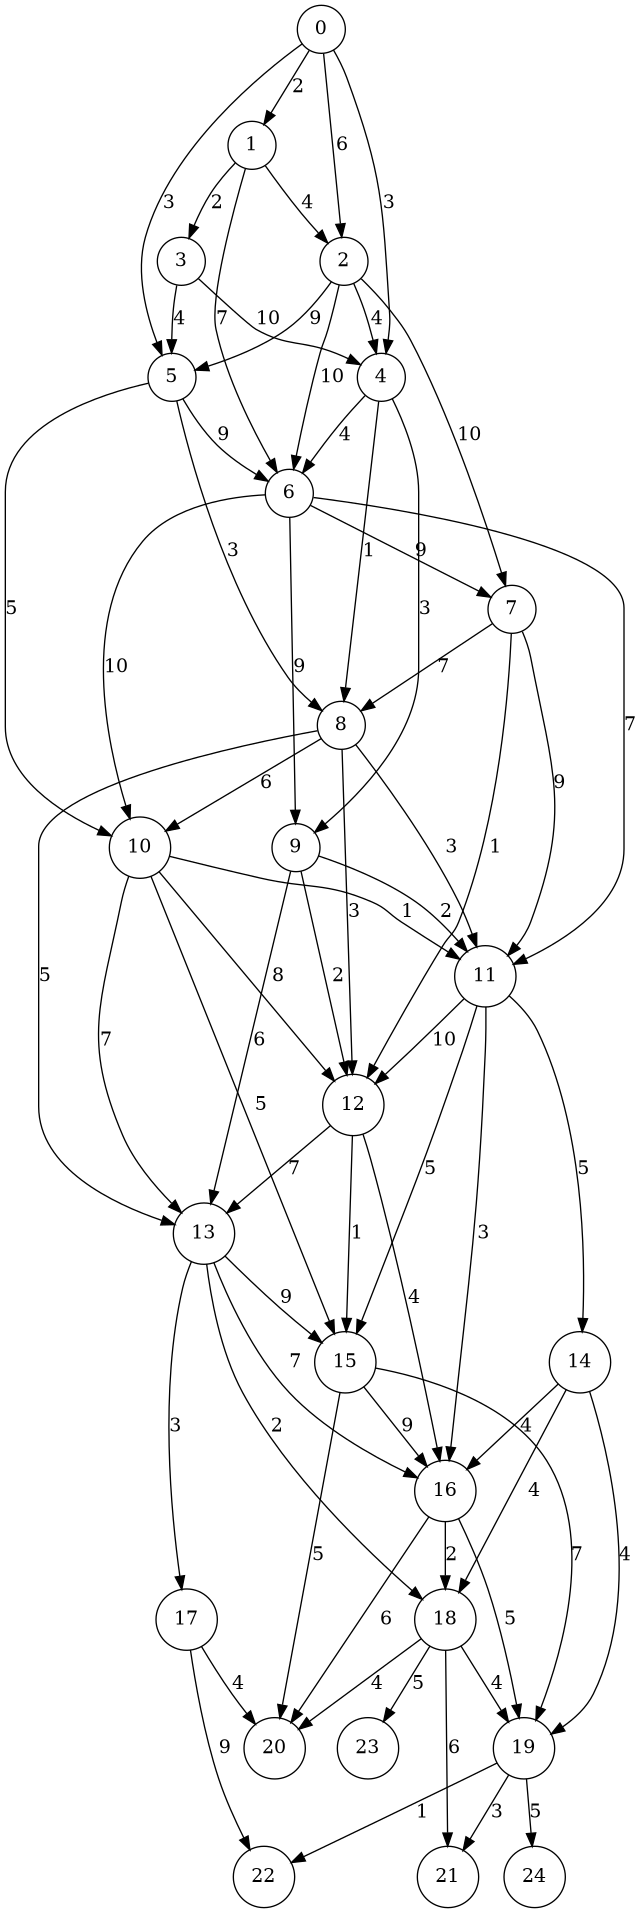
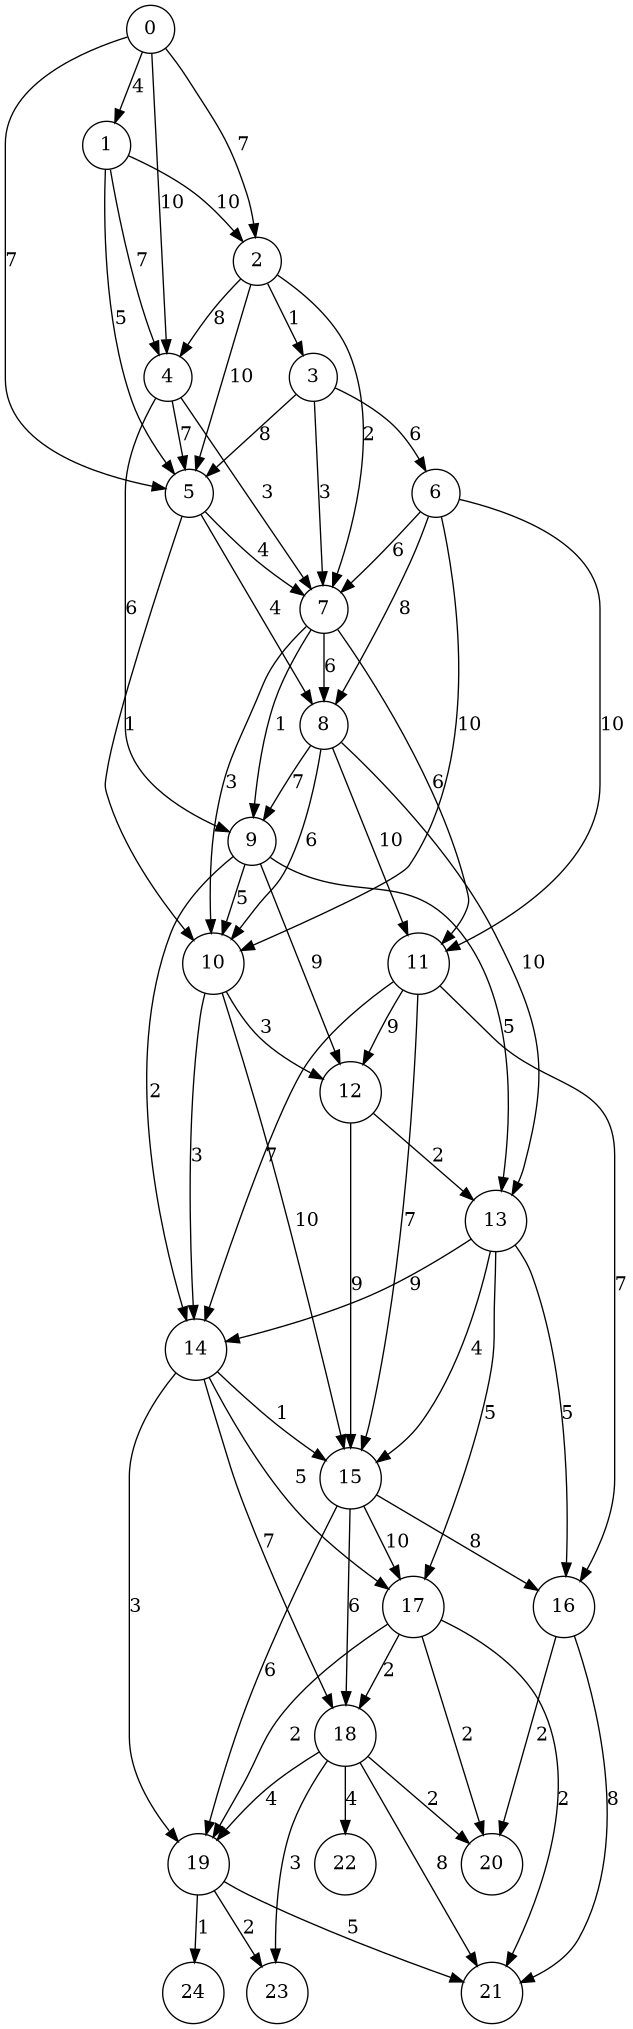
Few changes...

diff --git a/ford-fulkerson.html b/ford-fulkerson.html
@@ -183,11 +183,11 @@
 <span id="cb11-9"><a href="#cb11-9"></a>random-graph</span></code></pre></div>
 <div class="sourceCode" id="cb12"><pre class="sourceCode clojure"><code class="sourceCode clojure"><span id="cb12-1"><a href="#cb12-1"></a><span class="va">#&#39;user/get-random-graph</span></span>
 <span id="cb12-2"><a href="#cb12-2"></a><span class="va">#&#39;user/random-graph</span></span>
-<span id="cb12-3"><a href="#cb12-3"></a>{[<span class="dv">8</span> <span class="dv">9</span>] <span class="dv">5</span>, [<span class="dv">3</span> <span class="dv">4</span>] <span class="dv">6</span>, [<span class="dv">8</span> <span class="dv">10</span>] <span class="dv">3</span>, [<span class="dv">4</span> <span class="dv">9</span>] <span class="dv">9</span>, [<span class="dv">1</span> <span class="dv">4</span>] <span class="dv">7</span>, [<span class="dv">5</span> <span class="dv">7</span>] <span class="dv">4</span>, [<span class="dv">4</span> <span class="dv">8</span>] <span class="dv">10</span>, [<span class="dv">1</span> <span class="dv">5</span>] <span class="dv">1</span>, [<span class="dv">5</span> <span class="dv">6</span>] <span class="dv">2</span>, [<span class="dv">6</span> <span class="dv">11</span>] <span class="dv">3</span>, [<span class="dv">2</span> <span class="dv">7</span>] <span class="dv">8</span>, [<span class="dv">3</span> <span class="dv">6</span>] <span class="dv">8</span>, [<span class="dv">7</span> <span class="dv">10</span>] <span class="dv">10</span>, [<span class="dv">0</span> <span class="dv">2</span>] <span class="dv">10</span>, [<span class="dv">6</span> <span class="dv">10</span>] <span class="dv">6</span>, [<span class="dv">2</span> <span class="dv">6</span>] <span class="dv">9</span>}</span></code></pre></div>
+<span id="cb12-3"><a href="#cb12-3"></a>{[<span class="dv">8</span> <span class="dv">9</span>] <span class="dv">10</span>, [<span class="dv">7</span> <span class="dv">11</span>] <span class="dv">7</span>, [<span class="dv">5</span> <span class="dv">10</span>] <span class="dv">9</span>, [<span class="dv">0</span> <span class="dv">5</span>] <span class="dv">3</span>, [<span class="dv">3</span> <span class="dv">4</span>] <span class="dv">1</span>, [<span class="dv">7</span> <span class="dv">8</span>] <span class="dv">1</span>, [<span class="dv">4</span> <span class="dv">9</span>] <span class="dv">2</span>, [<span class="dv">1</span> <span class="dv">4</span>] <span class="dv">1</span>, [<span class="dv">5</span> <span class="dv">8</span>] <span class="dv">3</span>, [<span class="dv">8</span> <span class="dv">13</span>] <span class="dv">6</span>, [<span class="dv">2</span> <span class="dv">4</span>] <span class="dv">7</span>, [<span class="dv">6</span> <span class="dv">9</span>] <span class="dv">5</span>, [<span class="dv">0</span> <span class="dv">4</span>] <span class="dv">1</span>, [<span class="dv">6</span> <span class="dv">10</span>] <span class="dv">10</span>, [<span class="dv">3</span> <span class="dv">7</span>] <span class="dv">5</span>, [<span class="dv">2</span> <span class="dv">6</span>] <span class="dv">2</span>}</span></code></pre></div>
 <p><img src="figures/graphb.png" /></p>
 <div class="sourceCode" id="cb13"><pre class="sourceCode clojure"><code class="sourceCode clojure"><span id="cb13-1"><a href="#cb13-1"></a>(<span class="kw">into</span> [] (find-a-path random-graph <span class="dv">0</span> <span class="dv">9</span>))</span>
 <span id="cb13-2"><a href="#cb13-2"></a>(find-a-path random-graph <span class="dv">8</span> <span class="dv">0</span>)</span></code></pre></div>
-<div class="sourceCode" id="cb14"><pre class="sourceCode clojure"><code class="sourceCode clojure"><span id="cb14-1"><a href="#cb14-1"></a>[]</span>
+<div class="sourceCode" id="cb14"><pre class="sourceCode clojure"><code class="sourceCode clojure"><span id="cb14-1"><a href="#cb14-1"></a>[[<span class="dv">0</span> <span class="dv">5</span>] [<span class="dv">5</span> <span class="dv">8</span>] [<span class="dv">8</span> <span class="dv">9</span>]]</span>
 <span id="cb14-2"><a href="#cb14-2"></a>[]</span></code></pre></div>
 <p>Finally, our implementation of Ford-Fulkerson:</p>
 <div class="sourceCode" id="cb15"><pre class="sourceCode clojure"><code class="sourceCode clojure"><span id="cb15-1"><a href="#cb15-1"></a>(<span class="bu">defn</span><span class="fu"> ford-fulkerson </span>[G a b]</span>
@@ -207,12 +207,12 @@
 <div class="sourceCode" id="cb19"><pre class="sourceCode clojure"><code class="sourceCode clojure"><span id="cb19-1"><a href="#cb19-1"></a>(<span class="bu">def</span><span class="fu"> random-graph </span>(get-random-graph <span class="dv">20</span> <span class="dv">5</span> <span class="dv">5</span> <span class="dv">10</span>))</span>
 <span id="cb19-2"><a href="#cb19-2"></a>random-graph</span></code></pre></div>
 <div class="sourceCode" id="cb20"><pre class="sourceCode clojure"><code class="sourceCode clojure"><span id="cb20-1"><a href="#cb20-1"></a><span class="va">#&#39;user/random-graph</span></span>
-<span id="cb20-2"><a href="#cb20-2"></a>{[<span class="dv">8</span> <span class="dv">11</span>] <span class="dv">3</span>, [<span class="dv">16</span> <span class="dv">19</span>] <span class="dv">5</span>, [<span class="dv">7</span> <span class="dv">12</span>] <span class="dv">1</span>, [<span class="dv">18</span> <span class="dv">23</span>] <span class="dv">5</span>, [<span class="dv">13</span> <span class="dv">15</span>] <span class="dv">9</span>, [<span class="dv">7</span> <span class="dv">11</span>] <span class="dv">9</span>, [<span class="dv">10</span> <span class="dv">15</span>] <span class="dv">5</span>, [<span class="dv">2</span> <span class="dv">5</span>] <span class="dv">9</span>, [<span class="dv">15</span> <span class="dv">16</span>] <span class="dv">9</span>, [<span class="dv">10</span> <span class="dv">13</span>] <span class="dv">7</span>, [<span class="dv">15</span> <span class="dv">19</span>] <span class="dv">7</span>, [<span class="dv">6</span> <span class="dv">7</span>] <span class="dv">9</span>, [<span class="dv">12</span> <span class="dv">13</span>] <span class="dv">7</span>, [<span class="dv">5</span> <span class="dv">10</span>] <span class="dv">5</span>, [<span class="dv">0</span> <span class="dv">5</span>] <span class="dv">3</span>, [<span class="dv">3</span> <span class="dv">4</span>] <span class="dv">10</span>, [<span class="dv">19</span> <span class="dv">24</span>] <span class="dv">5</span>, [<span class="dv">11</span> <span class="dv">14</span>] <span class="dv">5</span>, [<span class="dv">19</span> <span class="dv">22</span>] <span class="dv">1</span>, [<span class="dv">18</span> <span class="dv">19</span>] <span class="dv">4</span>, [<span class="dv">7</span> <span class="dv">8</span>] <span class="dv">7</span>, [<span class="dv">8</span> <span class="dv">10</span>] <span class="dv">6</span>, [<span class="dv">14</span> <span class="dv">19</span>] <span class="dv">4</span>, [<span class="dv">9</span> <span class="dv">12</span>] <span class="dv">2</span>, [<span class="dv">4</span> <span class="dv">9</span>] <span class="dv">3</span>, [<span class="dv">15</span> <span class="dv">20</span>] <span class="dv">5</span>, [<span class="dv">4</span> <span class="dv">6</span>] <span class="dv">4</span>, [<span class="dv">11</span> <span class="dv">12</span>] <span class="dv">10</span>, [<span class="dv">1</span> <span class="dv">3</span>] <span class="dv">2</span>, [<span class="dv">4</span> <span class="dv">8</span>] <span class="dv">1</span>, [<span class="dv">10</span> <span class="dv">11</span>] <span class="dv">1</span>, [<span class="dv">5</span> <span class="dv">6</span>] <span class="dv">9</span>, [<span class="dv">5</span> <span class="dv">8</span>] <span class="dv">3</span>, [<span class="dv">16</span> <span class="dv">18</span>] <span class="dv">2</span>, [<span class="dv">8</span> <span class="dv">13</span>] <span class="dv">5</span>, [<span class="dv">9</span> <span class="dv">11</span>] <span class="dv">2</span>, [<span class="dv">6</span> <span class="dv">11</span>] <span class="dv">7</span>, [<span class="dv">10</span> <span class="dv">12</span>] <span class="dv">8</span>, [<span class="dv">2</span> <span class="dv">7</span>] <span class="dv">10</span>, [<span class="dv">13</span> <span class="dv">17</span>] <span class="dv">3</span>, [<span class="dv">2</span> <span class="dv">4</span>] <span class="dv">4</span>, [<span class="dv">12</span> <span class="dv">15</span>] <span class="dv">1</span>, [<span class="dv">0</span> <span class="dv">2</span>] <span class="dv">6</span>, [<span class="dv">6</span> <span class="dv">9</span>] <span class="dv">9</span>, [<span class="dv">11</span> <span class="dv">15</span>] <span class="dv">5</span>, [<span class="dv">19</span> <span class="dv">21</span>] <span class="dv">3</span>, [<span class="dv">0</span> <span class="dv">4</span>] <span class="dv">3</span>, [<span class="dv">14</span> <span class="dv">18</span>] <span class="dv">4</span>, [<span class="dv">9</span> <span class="dv">13</span>] <span class="dv">6</span>, [<span class="dv">13</span> <span class="dv">16</span>] <span class="dv">7</span>, [<span class="dv">13</span> <span class="dv">18</span>] <span class="dv">2</span>, [<span class="dv">6</span> <span class="dv">10</span>] <span class="dv">10</span>, [<span class="dv">14</span> <span class="dv">16</span>] <span class="dv">4</span>, [<span class="dv">1</span> <span class="dv">6</span>] <span class="dv">7</span>, [<span class="dv">16</span> <span class="dv">20</span>] <span class="dv">6</span>, [<span class="dv">18</span> <span class="dv">21</span>] <span class="dv">6</span>, [<span class="dv">2</span> <span class="dv">6</span>] <span class="dv">10</span>, [<span class="dv">8</span> <span class="dv">12</span>] <span class="dv">3</span>, [<span class="dv">12</span> <span class="dv">16</span>] <span class="dv">4</span>, [<span class="dv">1</span> <span class="dv">2</span>] <span class="dv">4</span>, [<span class="dv">18</span> <span class="dv">20</span>] <span class="dv">4</span>, [<span class="dv">3</span> <span class="dv">5</span>] <span class="dv">4</span>, [<span class="dv">17</span> <span class="dv">22</span>] <span class="dv">9</span>, [<span class="dv">11</span> <span class="dv">16</span>] <span class="dv">3</span>, [<span class="dv">0</span> <span class="dv">1</span>] <span class="dv">2</span>, [<span class="dv">17</span> <span class="dv">20</span>] <span class="dv">4</span>}</span></code></pre></div>
+<span id="cb20-2"><a href="#cb20-2"></a>{[<span class="dv">8</span> <span class="dv">11</span>] <span class="dv">10</span>, [<span class="dv">10</span> <span class="dv">14</span>] <span class="dv">3</span>, [<span class="dv">8</span> <span class="dv">9</span>] <span class="dv">7</span>, [<span class="dv">18</span> <span class="dv">23</span>] <span class="dv">3</span>, [<span class="dv">13</span> <span class="dv">15</span>] <span class="dv">4</span>, [<span class="dv">7</span> <span class="dv">11</span>] <span class="dv">6</span>, [<span class="dv">10</span> <span class="dv">15</span>] <span class="dv">10</span>, [<span class="dv">14</span> <span class="dv">17</span>] <span class="dv">5</span>, [<span class="dv">2</span> <span class="dv">3</span>] <span class="dv">1</span>, [<span class="dv">2</span> <span class="dv">5</span>] <span class="dv">10</span>, [<span class="dv">15</span> <span class="dv">16</span>] <span class="dv">8</span>, [<span class="dv">15</span> <span class="dv">17</span>] <span class="dv">10</span>, [<span class="dv">15</span> <span class="dv">19</span>] <span class="dv">6</span>, [<span class="dv">6</span> <span class="dv">7</span>] <span class="dv">6</span>, [<span class="dv">12</span> <span class="dv">13</span>] <span class="dv">2</span>, [<span class="dv">5</span> <span class="dv">10</span>] <span class="dv">1</span>, [<span class="dv">0</span> <span class="dv">5</span>] <span class="dv">7</span>, [<span class="dv">19</span> <span class="dv">24</span>] <span class="dv">1</span>, [<span class="dv">17</span> <span class="dv">18</span>] <span class="dv">2</span>, [<span class="dv">11</span> <span class="dv">14</span>] <span class="dv">7</span>, [<span class="dv">18</span> <span class="dv">19</span>] <span class="dv">4</span>, [<span class="dv">7</span> <span class="dv">8</span>] <span class="dv">6</span>, [<span class="dv">19</span> <span class="dv">23</span>] <span class="dv">2</span>, [<span class="dv">8</span> <span class="dv">10</span>] <span class="dv">6</span>, [<span class="dv">14</span> <span class="dv">19</span>] <span class="dv">3</span>, [<span class="dv">9</span> <span class="dv">12</span>] <span class="dv">9</span>, [<span class="dv">4</span> <span class="dv">7</span>] <span class="dv">3</span>, [<span class="dv">4</span> <span class="dv">9</span>] <span class="dv">6</span>, [<span class="dv">14</span> <span class="dv">15</span>] <span class="dv">1</span>, [<span class="dv">1</span> <span class="dv">4</span>] <span class="dv">7</span>, [<span class="dv">5</span> <span class="dv">7</span>] <span class="dv">4</span>, [<span class="dv">11</span> <span class="dv">12</span>] <span class="dv">9</span>, [<span class="dv">18</span> <span class="dv">22</span>] <span class="dv">4</span>, [<span class="dv">1</span> <span class="dv">5</span>] <span class="dv">5</span>, [<span class="dv">9</span> <span class="dv">14</span>] <span class="dv">2</span>, [<span class="dv">15</span> <span class="dv">18</span>] <span class="dv">6</span>, [<span class="dv">5</span> <span class="dv">8</span>] <span class="dv">4</span>, [<span class="dv">8</span> <span class="dv">13</span>] <span class="dv">10</span>, [<span class="dv">6</span> <span class="dv">8</span>] <span class="dv">8</span>, [<span class="dv">6</span> <span class="dv">11</span>] <span class="dv">10</span>, [<span class="dv">7</span> <span class="dv">9</span>] <span class="dv">1</span>, [<span class="dv">10</span> <span class="dv">12</span>] <span class="dv">3</span>, [<span class="dv">2</span> <span class="dv">7</span>] <span class="dv">2</span>, [<span class="dv">13</span> <span class="dv">17</span>] <span class="dv">5</span>, [<span class="dv">2</span> <span class="dv">4</span>] <span class="dv">8</span>, [<span class="dv">3</span> <span class="dv">6</span>] <span class="dv">6</span>, [<span class="dv">12</span> <span class="dv">15</span>] <span class="dv">9</span>, [<span class="dv">7</span> <span class="dv">10</span>] <span class="dv">3</span>, [<span class="dv">4</span> <span class="dv">5</span>] <span class="dv">7</span>, [<span class="dv">0</span> <span class="dv">2</span>] <span class="dv">7</span>, [<span class="dv">11</span> <span class="dv">15</span>] <span class="dv">7</span>, [<span class="dv">19</span> <span class="dv">21</span>] <span class="dv">5</span>, [<span class="dv">0</span> <span class="dv">4</span>] <span class="dv">10</span>, [<span class="dv">14</span> <span class="dv">18</span>] <span class="dv">7</span>, [<span class="dv">9</span> <span class="dv">13</span>] <span class="dv">5</span>, [<span class="dv">13</span> <span class="dv">16</span>] <span class="dv">5</span>, [<span class="dv">6</span> <span class="dv">10</span>] <span class="dv">10</span>, [<span class="dv">17</span> <span class="dv">19</span>] <span class="dv">2</span>, [<span class="dv">3</span> <span class="dv">7</span>] <span class="dv">3</span>, [<span class="dv">16</span> <span class="dv">20</span>] <span class="dv">2</span>, [<span class="dv">18</span> <span class="dv">21</span>] <span class="dv">8</span>, [<span class="dv">9</span> <span class="dv">10</span>] <span class="dv">5</span>, [<span class="dv">16</span> <span class="dv">21</span>] <span class="dv">8</span>, [<span class="dv">1</span> <span class="dv">2</span>] <span class="dv">10</span>, [<span class="dv">18</span> <span class="dv">20</span>] <span class="dv">2</span>, [<span class="dv">3</span> <span class="dv">5</span>] <span class="dv">8</span>, [<span class="dv">13</span> <span class="dv">14</span>] <span class="dv">9</span>, [<span class="dv">11</span> <span class="dv">16</span>] <span class="dv">7</span>, [<span class="dv">0</span> <span class="dv">1</span>] <span class="dv">4</span>, [<span class="dv">17</span> <span class="dv">21</span>] <span class="dv">2</span>, [<span class="dv">17</span> <span class="dv">20</span>] <span class="dv">2</span>}</span></code></pre></div>
 <p><img src="figures/graph9.png" /></p>
 <div class="sourceCode" id="cb21"><pre class="sourceCode clojure"><code class="sourceCode clojure"><span id="cb21-1"><a href="#cb21-1"></a>(<span class="bu">def</span><span class="fu"> augmenting-subgraph </span>(ford-fulkerson random-graph <span class="dv">0</span> <span class="dv">20</span>))</span>
 <span id="cb21-2"><a href="#cb21-2"></a>augmenting-subgraph</span></code></pre></div>
 <div class="sourceCode" id="cb22"><pre class="sourceCode clojure"><code class="sourceCode clojure"><span id="cb22-1"><a href="#cb22-1"></a><span class="va">#&#39;user/augmenting-subgraph</span></span>
-<span id="cb22-2"><a href="#cb22-2"></a>{(<span class="dv">7</span> <span class="dv">6</span>) <span class="dv">8</span>, [<span class="dv">8</span> <span class="dv">11</span>] <span class="dv">4</span>, [<span class="dv">7</span> <span class="dv">12</span>] <span class="dv">1</span>, (<span class="dv">10</span> <span class="dv">5</span>) <span class="dv">4</span>, [<span class="dv">13</span> <span class="dv">15</span>] <span class="dv">7</span>, (<span class="dv">11</span> <span class="dv">9</span>) <span class="dv">3</span>, (<span class="dv">4</span> <span class="dv">3</span>) <span class="dv">2</span>, [<span class="dv">7</span> <span class="dv">11</span>] <span class="dv">2</span>, [<span class="dv">10</span> <span class="dv">15</span>] <span class="dv">3</span>, [<span class="dv">2</span> <span class="dv">5</span>] <span class="dv">8</span>, [<span class="dv">15</span> <span class="dv">16</span>] <span class="dv">5</span>, [<span class="dv">6</span> <span class="dv">7</span>] <span class="dv">9</span>, [<span class="dv">12</span> <span class="dv">13</span>] <span class="dv">6</span>, [<span class="dv">5</span> <span class="dv">10</span>] <span class="dv">6</span>, [<span class="dv">0</span> <span class="dv">5</span>] <span class="dv">8</span>, [<span class="dv">3</span> <span class="dv">4</span>] <span class="dv">3</span>, [<span class="dv">11</span> <span class="dv">14</span>] <span class="dv">8</span>, [<span class="dv">8</span> <span class="dv">10</span>] <span class="dv">1</span>, [<span class="dv">9</span> <span class="dv">12</span>] <span class="dv">2</span>, [<span class="dv">4</span> <span class="dv">9</span>] <span class="dv">3</span>, (<span class="dv">6</span> <span class="dv">5</span>) <span class="dv">7</span>, [<span class="dv">15</span> <span class="dv">20</span>] <span class="dv">5</span>, (<span class="dv">5</span> <span class="dv">2</span>) <span class="dv">4</span>, [<span class="dv">4</span> <span class="dv">6</span>] <span class="dv">2</span>, (<span class="dv">11</span> <span class="dv">8</span>) <span class="dv">2</span>, [<span class="dv">11</span> <span class="dv">12</span>] <span class="dv">3</span>, [<span class="dv">1</span> <span class="dv">3</span>] <span class="dv">2</span>, (<span class="dv">6</span> <span class="dv">4</span>) <span class="dv">1</span>, [<span class="dv">5</span> <span class="dv">6</span>] <span class="dv">9</span>, [<span class="dv">5</span> <span class="dv">8</span>] <span class="dv">3</span>, (<span class="dv">14</span> <span class="dv">11</span>) <span class="dv">4</span>, [<span class="dv">9</span> <span class="dv">11</span>] <span class="dv">3</span>, [<span class="dv">6</span> <span class="dv">11</span>] <span class="dv">3</span>, [<span class="dv">2</span> <span class="dv">7</span>] <span class="dv">2</span>, [<span class="dv">0</span> <span class="dv">2</span>] <span class="dv">6</span>, [<span class="dv">0</span> <span class="dv">4</span>] <span class="dv">3</span>, [<span class="dv">14</span> <span class="dv">18</span>] <span class="dv">4</span>, [<span class="dv">9</span> <span class="dv">13</span>] <span class="dv">1</span>, (<span class="dv">3</span> <span class="dv">1</span>) <span class="dv">1</span>, [<span class="dv">1</span> <span class="dv">6</span>] <span class="dv">1</span>, [<span class="dv">16</span> <span class="dv">20</span>] <span class="dv">5</span>, (<span class="dv">5</span> <span class="dv">0</span>) <span class="dv">5</span>, [<span class="dv">18</span> <span class="dv">20</span>] <span class="dv">4</span>, [<span class="dv">0</span> <span class="dv">1</span>] <span class="dv">2</span>}</span></code></pre></div>
+<span id="cb22-2"><a href="#cb22-2"></a>{[<span class="dv">8</span> <span class="dv">11</span>] <span class="dv">1</span>, [<span class="dv">10</span> <span class="dv">14</span>] <span class="dv">1</span>, [<span class="dv">13</span> <span class="dv">15</span>] <span class="dv">1</span>, [<span class="dv">7</span> <span class="dv">11</span>] <span class="dv">4</span>, [<span class="dv">14</span> <span class="dv">17</span>] <span class="dv">6</span>, [<span class="dv">15</span> <span class="dv">16</span>] <span class="dv">2</span>, [<span class="dv">12</span> <span class="dv">13</span>] <span class="dv">1</span>, [<span class="dv">5</span> <span class="dv">10</span>] <span class="dv">1</span>, [<span class="dv">0</span> <span class="dv">5</span>] <span class="dv">6</span>, [<span class="dv">17</span> <span class="dv">18</span>] <span class="dv">2</span>, [<span class="dv">11</span> <span class="dv">14</span>] <span class="dv">5</span>, [<span class="dv">14</span> <span class="dv">15</span>] <span class="dv">1</span>, [<span class="dv">5</span> <span class="dv">7</span>] <span class="dv">4</span>, [<span class="dv">11</span> <span class="dv">12</span>] <span class="dv">1</span>, [<span class="dv">5</span> <span class="dv">8</span>] <span class="dv">1</span>, (<span class="dv">14</span> <span class="dv">11</span>) <span class="dv">1</span>, (<span class="dv">17</span> <span class="dv">14</span>) <span class="dv">2</span>, [<span class="dv">16</span> <span class="dv">20</span>] <span class="dv">2</span>, [<span class="dv">18</span> <span class="dv">20</span>] <span class="dv">2</span>, [<span class="dv">17</span> <span class="dv">20</span>] <span class="dv">2</span>}</span></code></pre></div>
 <p><img src="figures/grapha.png" /></p>
 <p>Let me simplify the output by removing spurious feedback loops:</p>
 <div class="sourceCode" id="cb23"><pre class="sourceCode clojure"><code class="sourceCode clojure"><span id="cb23-1"><a href="#cb23-1"></a>(<span class="bu">defn</span><span class="fu"> clean </span>[G]</span>

diff --git a/ford-fulkerson.md b/ford-fulkerson.md
@@ -196,7 +196,7 @@ random-graph
 ```clojure
 #'user/get-random-graph
 #'user/random-graph
-{[8 9] 5, [3 4] 6, [8 10] 3, [4 9] 9, [1 4] 7, [5 7] 4, [4 8] 10, [1 5] 1, [5 6] 2, [6 11] 3, [2 7] 8, [3 6] 8, [7 10] 10, [0 2] 10, [6 10] 6, [2 6] 9}
+{[8 9] 10, [7 11] 7, [5 10] 9, [0 5] 3, [3 4] 1, [7 8] 1, [4 9] 2, [1 4] 1, [5 8] 3, [8 13] 6, [2 4] 7, [6 9] 5, [0 4] 1, [6 10] 10, [3 7] 5, [2 6] 2}
 ```
 
 ![](figures/graphb.png)
@@ -205,7 +205,7 @@ random-graph
 (find-a-path random-graph 8 0)
 ```
 ```clojure
-[]
+[[0 5] [5 8] [8 9]]
 []
 ```
 
@@ -240,7 +240,7 @@ random-graph
 ```
 ```clojure
 #'user/random-graph
-{[8 11] 3, [16 19] 5, [7 12] 1, [18 23] 5, [13 15] 9, [7 11] 9, [10 15] 5, [2 5] 9, [15 16] 9, [10 13] 7, [15 19] 7, [6 7] 9, [12 13] 7, [5 10] 5, [0 5] 3, [3 4] 10, [19 24] 5, [11 14] 5, [19 22] 1, [18 19] 4, [7 8] 7, [8 10] 6, [14 19] 4, [9 12] 2, [4 9] 3, [15 20] 5, [4 6] 4, [11 12] 10, [1 3] 2, [4 8] 1, [10 11] 1, [5 6] 9, [5 8] 3, [16 18] 2, [8 13] 5, [9 11] 2, [6 11] 7, [10 12] 8, [2 7] 10, [13 17] 3, [2 4] 4, [12 15] 1, [0 2] 6, [6 9] 9, [11 15] 5, [19 21] 3, [0 4] 3, [14 18] 4, [9 13] 6, [13 16] 7, [13 18] 2, [6 10] 10, [14 16] 4, [1 6] 7, [16 20] 6, [18 21] 6, [2 6] 10, [8 12] 3, [12 16] 4, [1 2] 4, [18 20] 4, [3 5] 4, [17 22] 9, [11 16] 3, [0 1] 2, [17 20] 4}
+{[8 11] 10, [10 14] 3, [8 9] 7, [18 23] 3, [13 15] 4, [7 11] 6, [10 15] 10, [14 17] 5, [2 3] 1, [2 5] 10, [15 16] 8, [15 17] 10, [15 19] 6, [6 7] 6, [12 13] 2, [5 10] 1, [0 5] 7, [19 24] 1, [17 18] 2, [11 14] 7, [18 19] 4, [7 8] 6, [19 23] 2, [8 10] 6, [14 19] 3, [9 12] 9, [4 7] 3, [4 9] 6, [14 15] 1, [1 4] 7, [5 7] 4, [11 12] 9, [18 22] 4, [1 5] 5, [9 14] 2, [15 18] 6, [5 8] 4, [8 13] 10, [6 8] 8, [6 11] 10, [7 9] 1, [10 12] 3, [2 7] 2, [13 17] 5, [2 4] 8, [3 6] 6, [12 15] 9, [7 10] 3, [4 5] 7, [0 2] 7, [11 15] 7, [19 21] 5, [0 4] 10, [14 18] 7, [9 13] 5, [13 16] 5, [6 10] 10, [17 19] 2, [3 7] 3, [16 20] 2, [18 21] 8, [9 10] 5, [16 21] 8, [1 2] 10, [18 20] 2, [3 5] 8, [13 14] 9, [11 16] 7, [0 1] 4, [17 21] 2, [17 20] 2}
 ```
 
 ![](figures/graph9.png)
@@ -251,7 +251,7 @@ augmenting-subgraph
 ```
 ```clojure
 #'user/augmenting-subgraph
-{(7 6) 8, [8 11] 4, [7 12] 1, (10 5) 4, [13 15] 7, (11 9) 3, (4 3) 2, [7 11] 2, [10 15] 3, [2 5] 8, [15 16] 5, [6 7] 9, [12 13] 6, [5 10] 6, [0 5] 8, [3 4] 3, [11 14] 8, [8 10] 1, [9 12] 2, [4 9] 3, (6 5) 7, [15 20] 5, (5 2) 4, [4 6] 2, (11 8) 2, [11 12] 3, [1 3] 2, (6 4) 1, [5 6] 9, [5 8] 3, (14 11) 4, [9 11] 3, [6 11] 3, [2 7] 2, [0 2] 6, [0 4] 3, [14 18] 4, [9 13] 1, (3 1) 1, [1 6] 1, [16 20] 5, (5 0) 5, [18 20] 4, [0 1] 2}
+{[8 11] 1, [10 14] 1, [13 15] 1, [7 11] 4, [14 17] 6, [15 16] 2, [12 13] 1, [5 10] 1, [0 5] 6, [17 18] 2, [11 14] 5, [14 15] 1, [5 7] 4, [11 12] 1, [5 8] 1, (14 11) 1, (17 14) 2, [16 20] 2, [18 20] 2, [17 20] 2}
 ```
 
 ![](figures/grapha.png)
